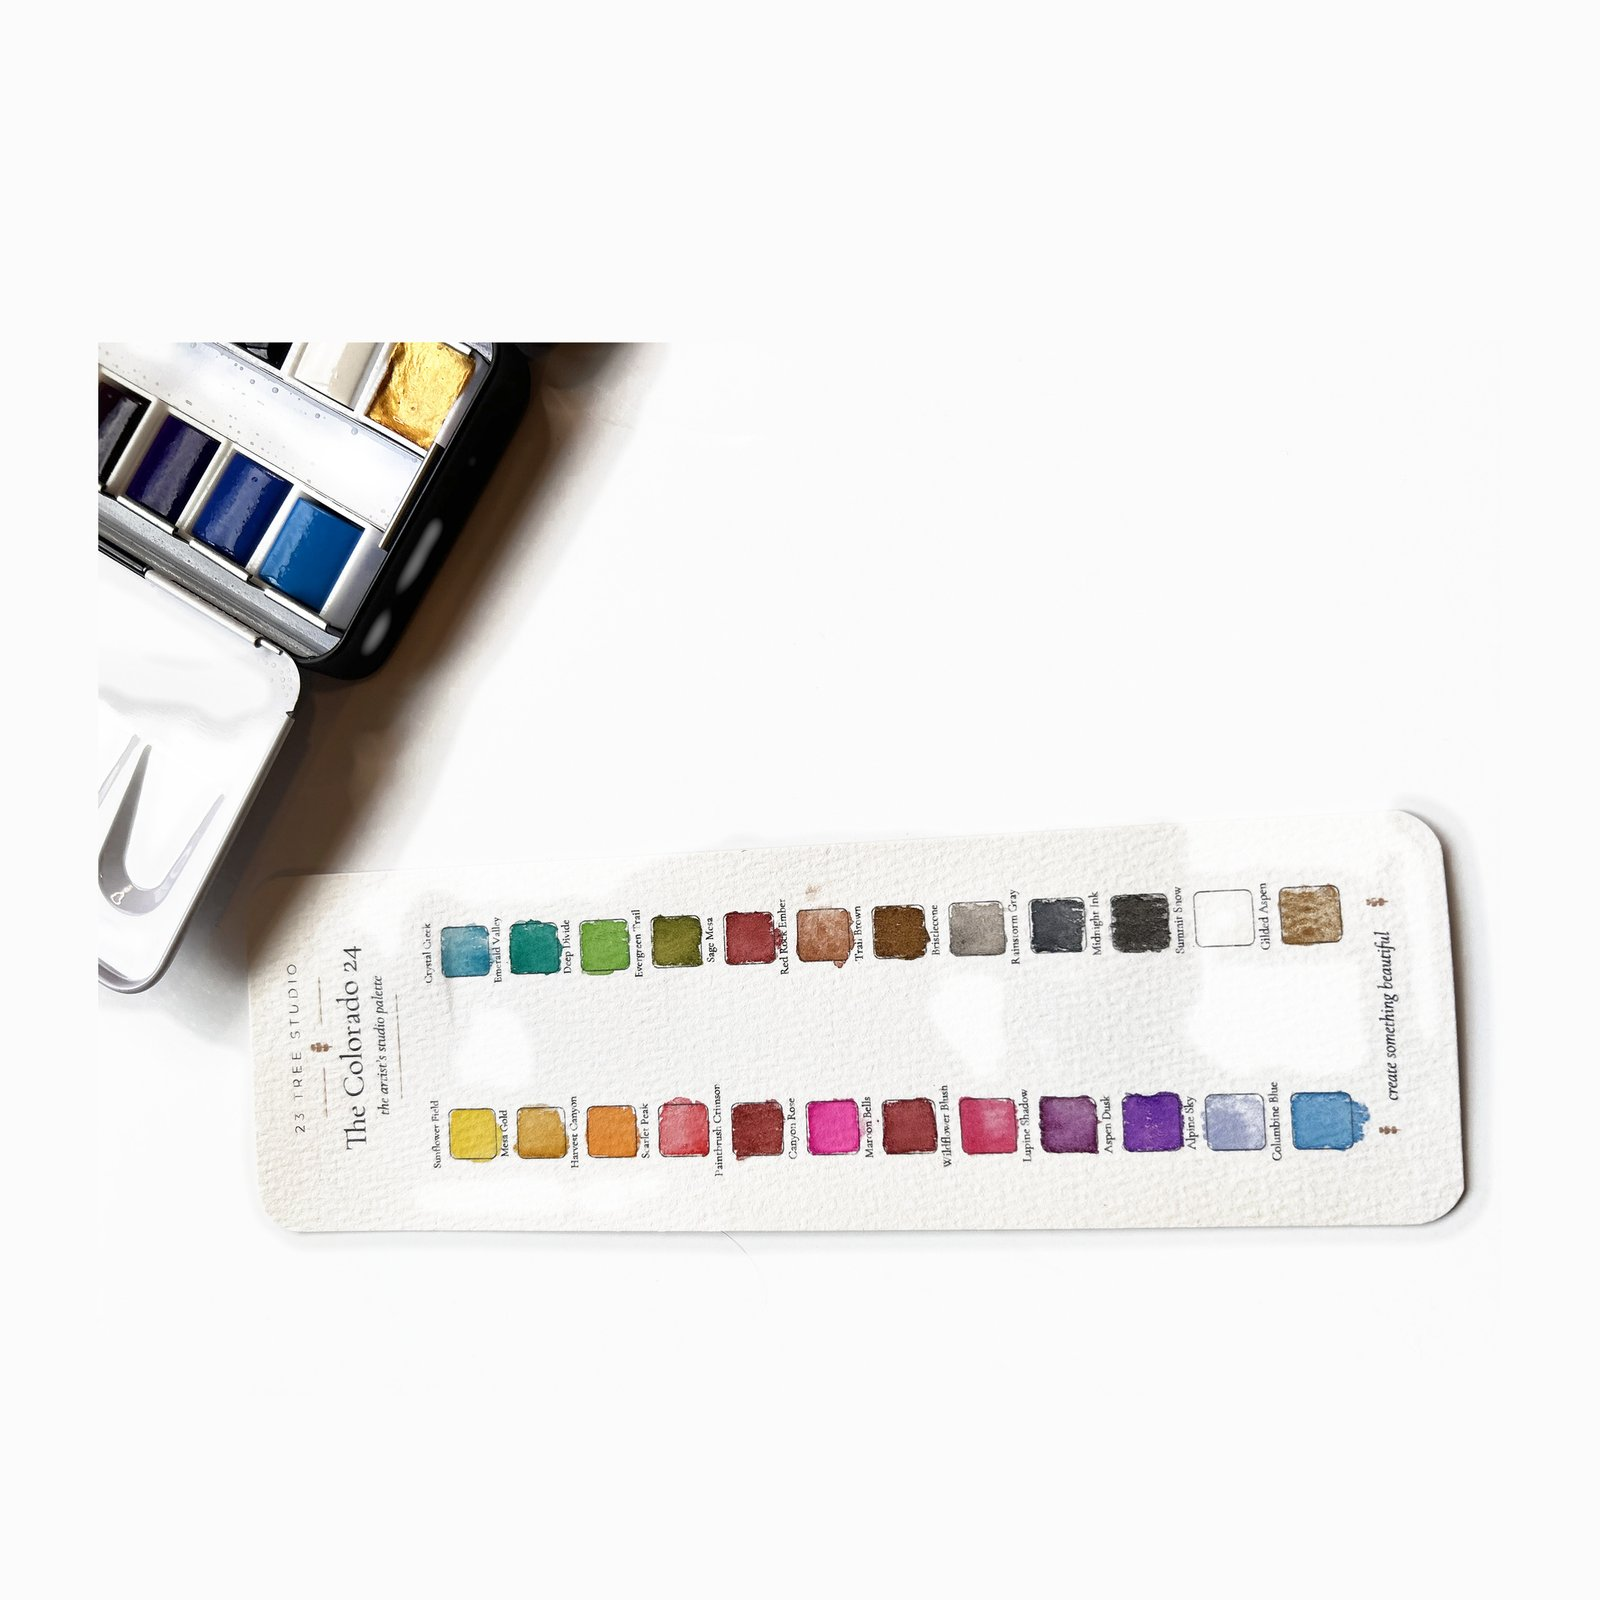
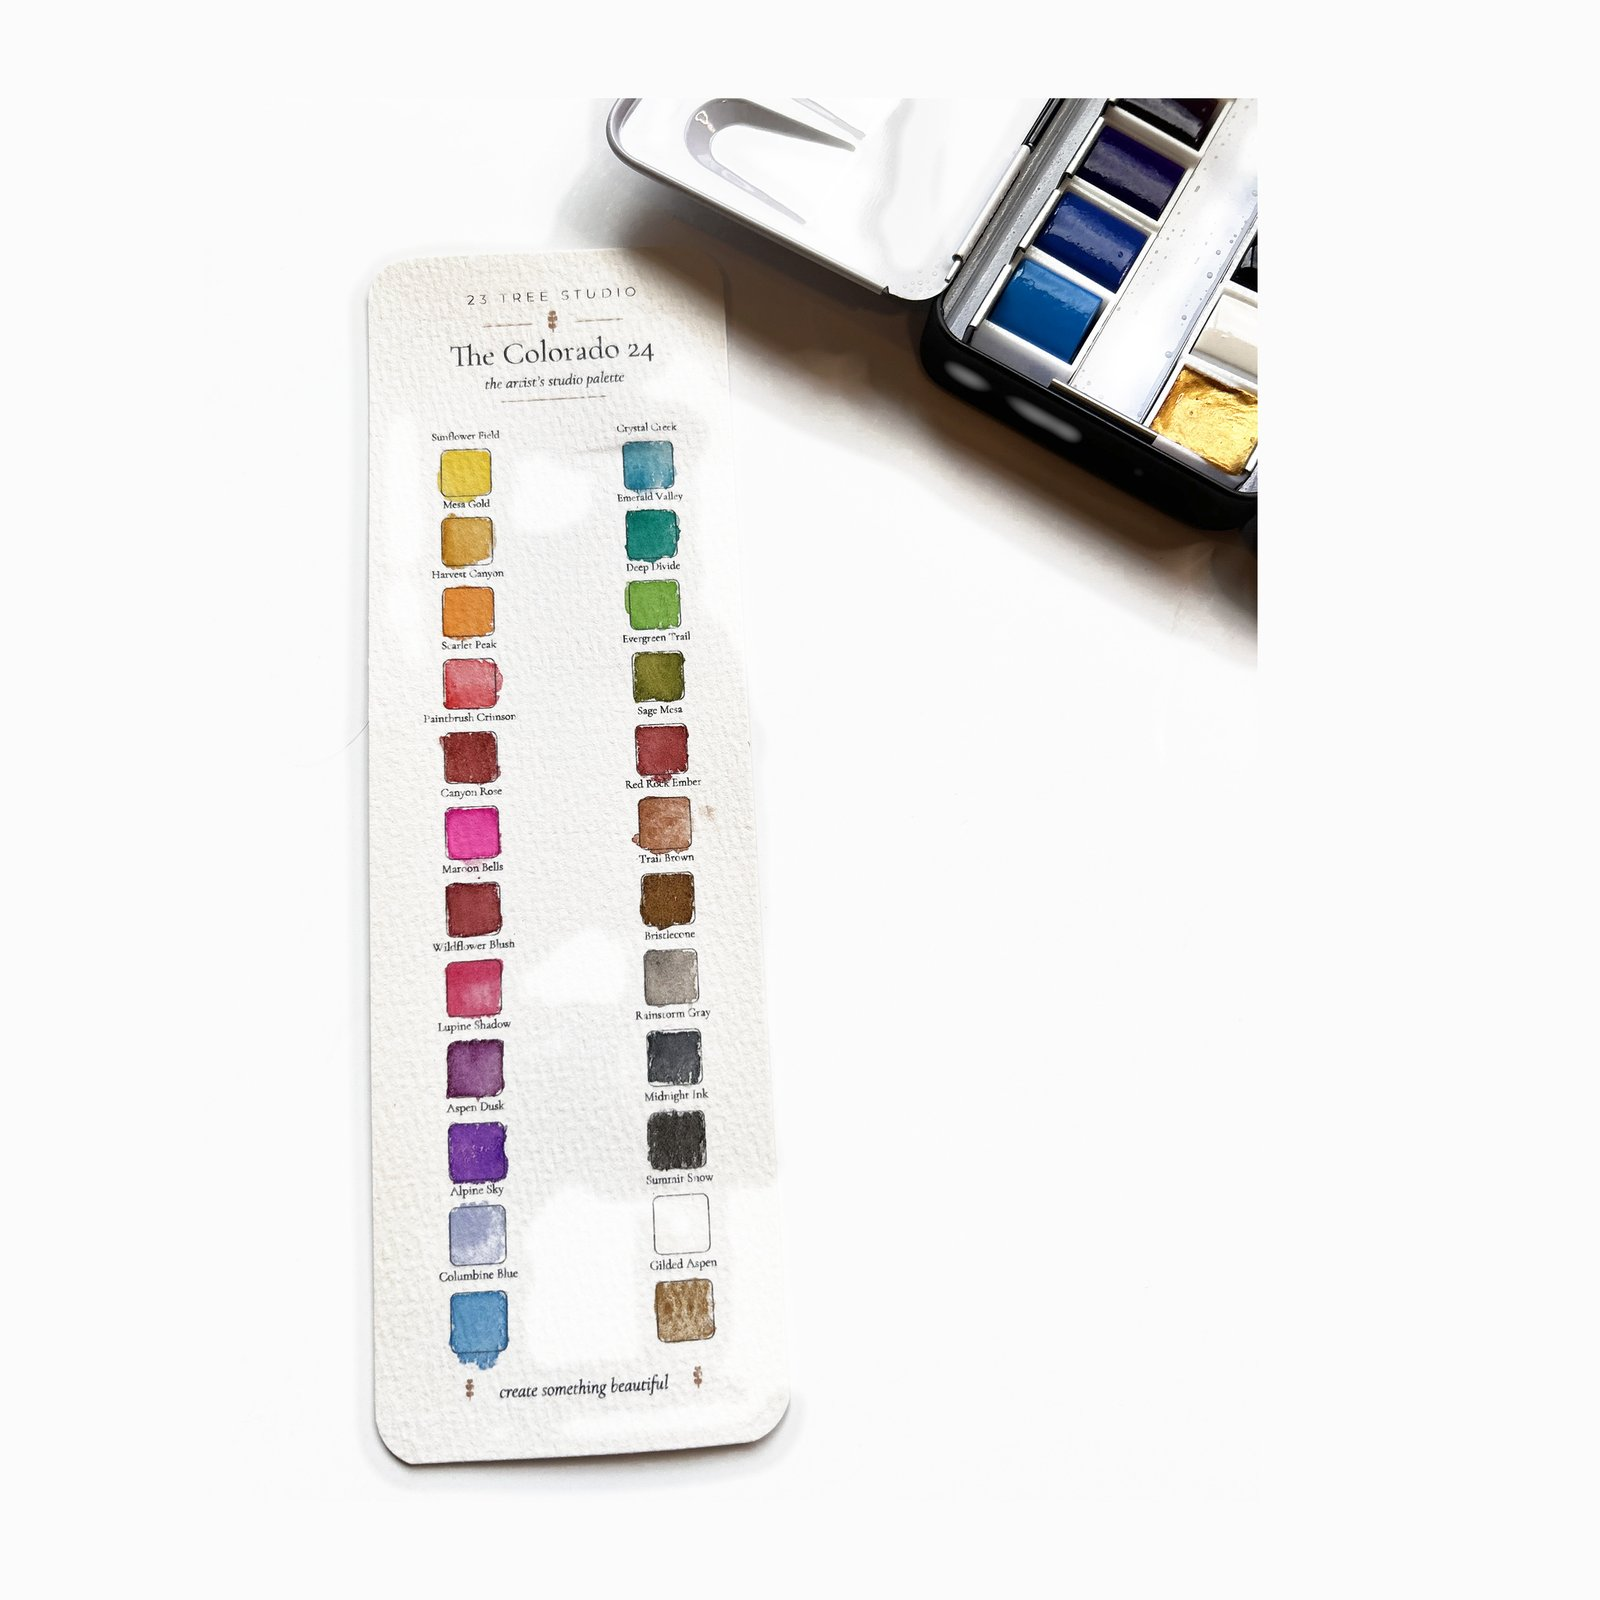
Rotate Colorado 24 swatch card upright, replace old tin photo, unpublish Columbine mister
- Rotate the swatch-card photo 90° so the card reads upright
- Use it on The Colorado 24 product card, replacing the old-tin photo
- Restore the Ski Town swatch image in the new-releases strip
- Remove the Columbine Fine Mist Bottle card until the new design is ready

Claude-Session: https://claude.ai/code/session_01VaJTs5GeDqFuU2L8rHi6JQ

Changed region(s): [[0.0625, 0.0625, 0.9062, 0.9062], [0.875, 0.5, 0.9375, 0.75], [0.25, 0.875, 0.5, 0.9375]]

diff --git a/index.html b/index.html
@@ -756,9 +756,9 @@
                         class="w-full h-full object-contain bg-white hover:scale-105 transition duration-700">
                 </div>
                 <div class="reveal reveal-delay-2 overflow-hidden organic-corners shadow-md aspect-square relative">
-                    <span class="absolute top-3 left-3 z-10 bg-olive-700/95 text-white text-[10px] uppercase tracking-[0.2em] font-bold px-3 py-1.5 rounded-full shadow-lg">New</span>
-                    <img src="assets/colorado-24-swatch-card.jpg" alt="The Colorado 24 hand-painted swatch card — all 24 named Colorado shades, from Sunflower Field to Gilded Aspen, beside the open tin"
-                        class="w-full h-full object-cover hover:scale-105 transition duration-700">
+                    <span class="absolute top-3 left-3 z-10 bg-gold-600 text-white text-[10px] uppercase tracking-[0.2em] font-bold px-3 py-1.5 rounded-full shadow-lg">Preorder</span>
+                    <img src="assets/ski-town-shimmer-tin.jpg" alt="Hand-painted Ski Town Shimmer swatches, from Champagne Powder to Aspen Midnight"
+                        class="absolute bottom-0 left-1/2 -translate-x-1/2 h-[200%] max-w-none w-auto object-cover hover:scale-105 transition duration-700">
                 </div>
             </div>
         </div>
@@ -818,15 +818,6 @@
                     <p class="text-sm text-gray-500 font-light">$20</p>
                 </a>
 
-                <a href="https://shop.23treestudio.com/products/the-columbine-studio-mister" target="_blank" class="reveal group">
-                    <div class="overflow-hidden organic-corners shadow-md aspect-square relative mb-4">
-                        <img src="https://cdn.faire.com/fastly/0763d29a3022fae3974091243e77505c37b244838fc1978c0aa96198d7a3298c.jpeg" alt="Columbine fine mist watercolor spray bottle"
-                            class="w-full h-full object-cover transition duration-700 group-hover:scale-105">
-                    </div>
-                    <h4 class="text-lg text-gray-800 mb-1 leading-snug group-hover:text-payne-700 transition">Columbine Fine Mist Bottle</h4>
-                    <p class="text-sm text-gray-500 font-light">$14 · Preorder</p>
-                </a>
-
                 <a href="https://shop.23treestudio.com/products/the-aspen-classic-12" target="_blank" class="reveal group">
                     <div class="overflow-hidden organic-corners-reverse shadow-md aspect-square relative mb-4">
                         <img src="assets/aspen-grove-open-tin.jpg" alt="Aspen Grove Studio Starter Set — open navy tin"
@@ -839,7 +830,7 @@
                 <a href="https://shop.23treestudio.com/products/colorado-24" target="_blank" class="reveal reveal-delay-1 group">
                     <div class="overflow-hidden organic-corners shadow-md aspect-square relative mb-4">
                         <span class="absolute top-3 left-3 z-10 bg-olive-700/95 text-white text-[10px] uppercase tracking-[0.2em] font-bold px-3 py-1.5 rounded-full shadow-lg">New</span>
-                        <img src="assets/colorado-24-swatch-tin.jpg" alt="The Colorado 24 — swatch cards and open tin with watercolor pans"
+                        <img src="assets/colorado-24-swatch-card.jpg" alt="The Colorado 24 hand-painted swatch card — all 24 named Colorado shades, from Sunflower Field to Gilded Aspen, beside the open tin"
                             class="w-full h-full object-cover transition duration-700 group-hover:scale-105">
                     </div>
                     <h4 class="text-lg text-gray-800 mb-1 leading-snug group-hover:text-payne-700 transition">The Colorado 24</h4>
